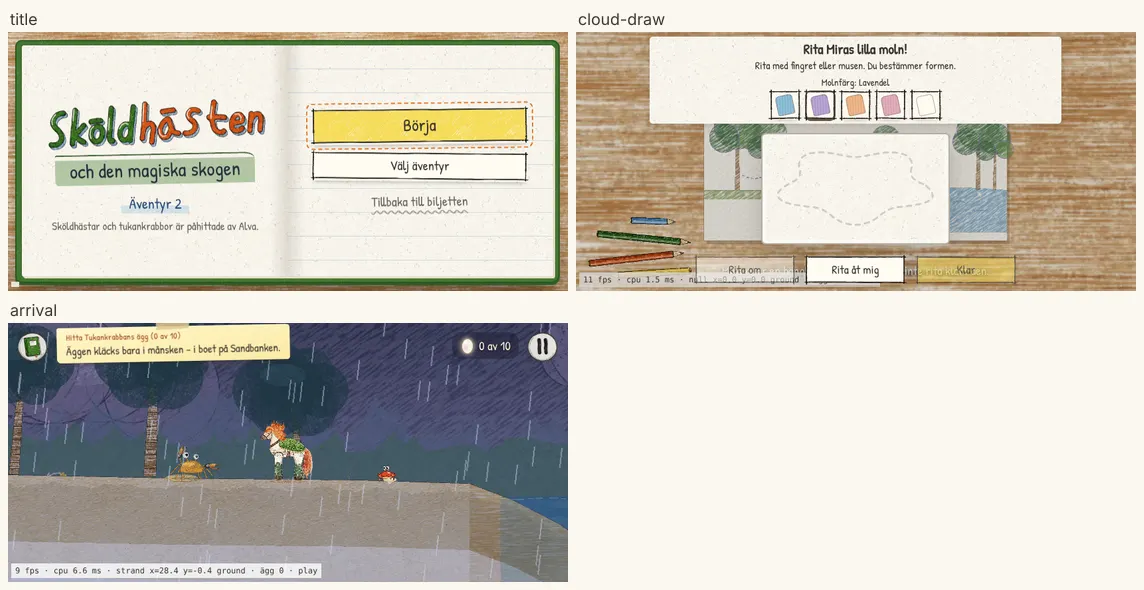
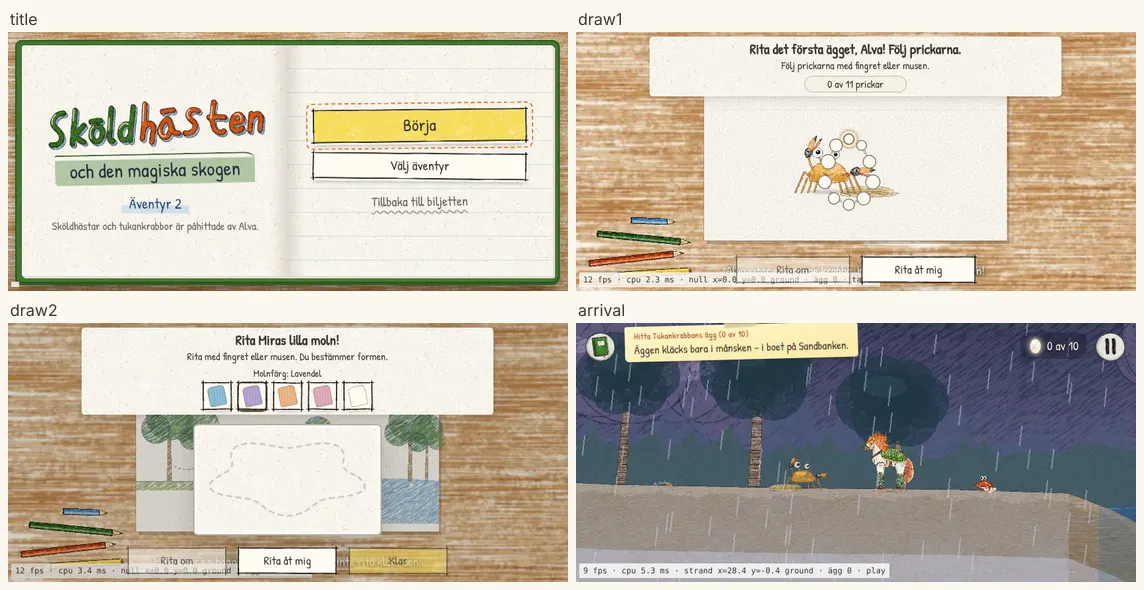
Bring Alva into Äventyr 2, correct its Swedish, and measure its length
Alva now draws in the story as Mira does: the first egg in the prologue and a
star beside Mira's moon in the finale (the player traces both with her pencil),
and she speaks through the adventure. Every line, hint and clue had a Swedish
pass. The handover records the length against Kapitel 1 and Äventyr 1.

Claude-Session: https://claude.ai/code/session_01SGBiUQrbjJCwzhumXSpnw3

diff --git a/docs/skoldhast/adventure-2.md b/docs/skoldhast/adventure-2.md
@@ -53,9 +53,12 @@ men på den här sidan finns ingen måne. Vem är det som stormar, och varför?"
   ("Hundrafyrtio slag i minuten! Det måste vara stormen"), draws hearts in his notebook and calls them
   diagrams. In the end he gives her the shiniest thing he owns: his stopwatch.
 - **Mira** and **Alva**: at the table, on the other side of the paper. Heard in speech boxes, never drawn
-  (the same rule as Äventyr 1, plan §3.2). Alva draws the tukankrabba; Mira draws the forest, the river, a
-  rope bridge (a bit dashed: she didn't finish it) and a little cloud with lightning "because that is the
-  coolest". In the finale Mira draws the moon.
+  (the same rule as Äventyr 1, plan §3.2), and both with us through the whole adventure. Alva draws the
+  tukankrabba and the first egg (the player traces it with her pencil); Mira draws the forest, the river, a
+  rope bridge (a bit dashed: she didn't finish it) and a little cloud with lightning (the player draws it).
+  In the finale Mira draws the moon and Alva the stars round it. Alva speaks at the nest, at Mira's bridge,
+  about her own facts (shiny things, moonshine seeds instead of sunflower seeds), at the big leap, when Klo
+  is plainly in love, in the crown and at the table.
 - **Molnet** (Mira's little storm cloud): the player draws its shape with Mira's lilac pencil in the
   prologue. It is not bad: it is afraid of the dark, so it thunders and flashes to see. Nobody drew a moon.
 - **Skatan**: a magpie who collects shiny things too. She found two eggs and thinks they are pearls. A rival
@@ -96,7 +99,7 @@ the crown where the cloud sits (the reveal).
 | P6 | Skatträdet + Djuphålan | 2 | The magpie trades her two "pearls" only for something shinier. The gold coin lies at the bottom of the whirlpool: swimmers are spun away, but a hidden shell spirals down to it. Climb the tree's branches and **Ge** her the coin. | both |
 | P7 | Rutschstammen | 1 | The egg sits in an old nest across Ravinen. A normal gallop is too short: gallop down the fallen trunk for extra speed and make the big leap. **Dra** the vine to get back. | horse |
 | — | Jätteträdet | — | Climb the branches to the crown and meet the cloud: the reveal. | — |
-| Finale | the nest | — | With all ten eggs and the cloud along, the eggs go into the sand. Mira draws the moon (the player traces it with her pencil). The cloud stops being afraid, the storm ends, and ten little tukankrabbor hatch. | Mira |
+| Finale | the nest | — | With all ten eggs and the cloud along, the eggs go into the sand. Mira draws the moon and Alva a star beside it (the player traces both with their pencils). The cloud stops being afraid, the storm ends, and ten little tukankrabbor hatch. | Mira and Alva |
 
 Help follows Äventyr 1: every puzzle has an intro line that says why, and up to three hints in Klo's or
 Tukankrabban's words (never key names). Nothing can fail and nothing is timed.
@@ -104,7 +107,8 @@ Tukankrabban's words (never key names). Nothing can fail and nothing is timed.
 ## Beats
 
 1. **Prologue at the table.** A new page. Mira wants to draw too. Alva draws the tukankrabba and her nest of
-   ten eggs; Mira draws the forest and the river, and then (the player) a little cloud with her lilac pencil.
+   ten eggs (the player traces the first egg with Alva's pencil); Mira draws the forest and the river, and then
+   (the player) a little cloud with her lilac pencil.
    "Med blixtar!" The page darkens, the cloud rumbles, the eggs blow away like sparks. The sköldhäst and
    Klo gallop in from the sea page.
 2. **The nest.** Tukankrabban digs in the empty nest. Klo falls in love. Her rule: eggs hatch only in

diff --git a/skoldhast/HANDOVER.md b/skoldhast/HANDOVER.md
@@ -1,5 +1,37 @@
 # Sköldhästen – handover
 
+## Äventyr 2: Alva with us, a Swedish pass, and how long it is (4 November, later)
+
+Pappa asked for three things after the first build: Alva must also be in the game, all the storytelling must be
+in good and correct Swedish, and how long is Äventyr 2 compared with Kapitel 1?
+
+- **Alva draws and speaks through the whole adventure**, not only at the table (still heard and seen as her
+  pencil, never drawn). In the prologue the player draws **the first egg with Alva's pencil** (a traced egg,
+  then the other nine appear in the nest), as well as Mira's cloud. In the finale, after Mira's moon, the player
+  draws **a star with Alva's pencil**, and her stars shine round the moon for the rest of the game. She talks
+  to Tukankrabban at the nest ("Alva, är det du som har ritat mig? Tack för tukanklorna!"), writes the first
+  egg into the notebook, reminds the sköldhäst that her pencil is in its hooves at Mira's bridge, tells us
+  tukankrabbor love pearl necklaces and gold coins (her facts), that moonshine seeds replace sunflower seeds
+  ("Det har jag bestämt."), cheers the big leap, sees that Klo is in love ("Jag visste det! Klo är kär." Mira:
+  "Kär, kär, kär!"), and speaks in the crown and the epilogue: 11 lines during play, 5 at the table.
+- **Swedish pass** over every line, hint, goal and clue: no anglicisms ("Wow", "coolaste"), correct
+  references ("Jag bär äggen i mitt skal. Där har de det varmt och tryggt."), "där inne", "Hundrafyrtio slag i
+  minuten", cocoa *fruits* on the tree, and the moonshine *flowers* whose *seeds* glow (her food, as Alva wrote).
+  Klo "kilar" after the sköldhäst; the colon after "Förresten".
+- **How long it is** (the robot plays optimally and skips nothing; the prologue is not counted in either):
+
+  | | Robot play time | Dialogue boxes | Puzzles |
+  | --- | --- | --- | --- |
+  | Äventyr 1, Kapitel 1 | 0.7 min | 26 | 2 |
+  | Äventyr 1, all three chapters | 4.1 min | 94 | 8 |
+  | Äventyr 2 | 3.6 min | 112 | 8 + the climb |
+
+  So Äventyr 2 is about five times as long as Kapitel 1 and close to the whole of Äventyr 1. A child's real
+  play time is still unmeasured; Äventyr 1 has more long staged scenes (the prologue, the map journeys).
+- Verification: `npm test` passes (387); the robot now also checks Alva's stars and that Alva speaks during
+  play (at least 7 lines). `node tests/browser/skoldhast-a2.mjs` checks both table drawings in the prologue
+  (Alva's egg, Mira's cloud) and both in the finale (Mira's moon, Alva's star).
+
 ## Äventyr 2: Den magiska skogen, built in one go (4 November)
 
 Branch `ccr-cae565b1-4dxaeb`. Pappa asked for the whole next chapter at once: a good story, many puzzles, about
